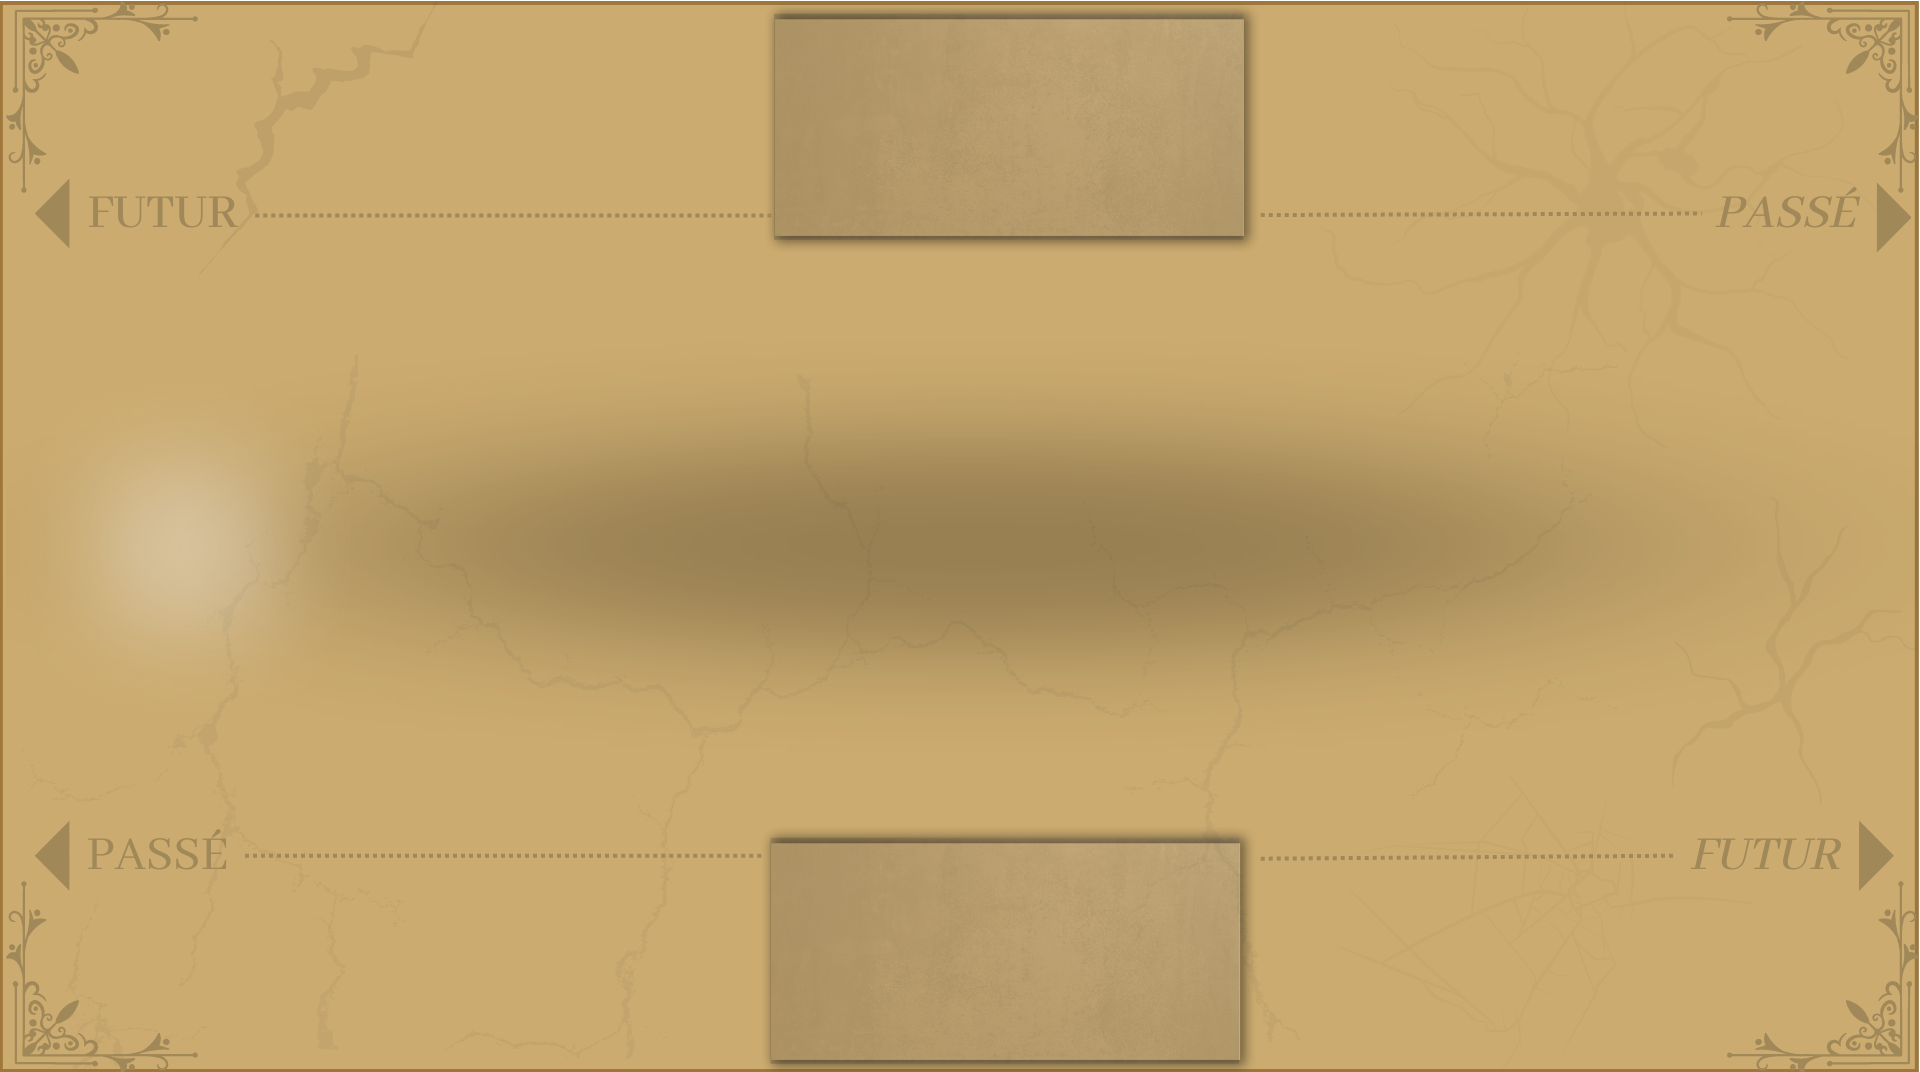
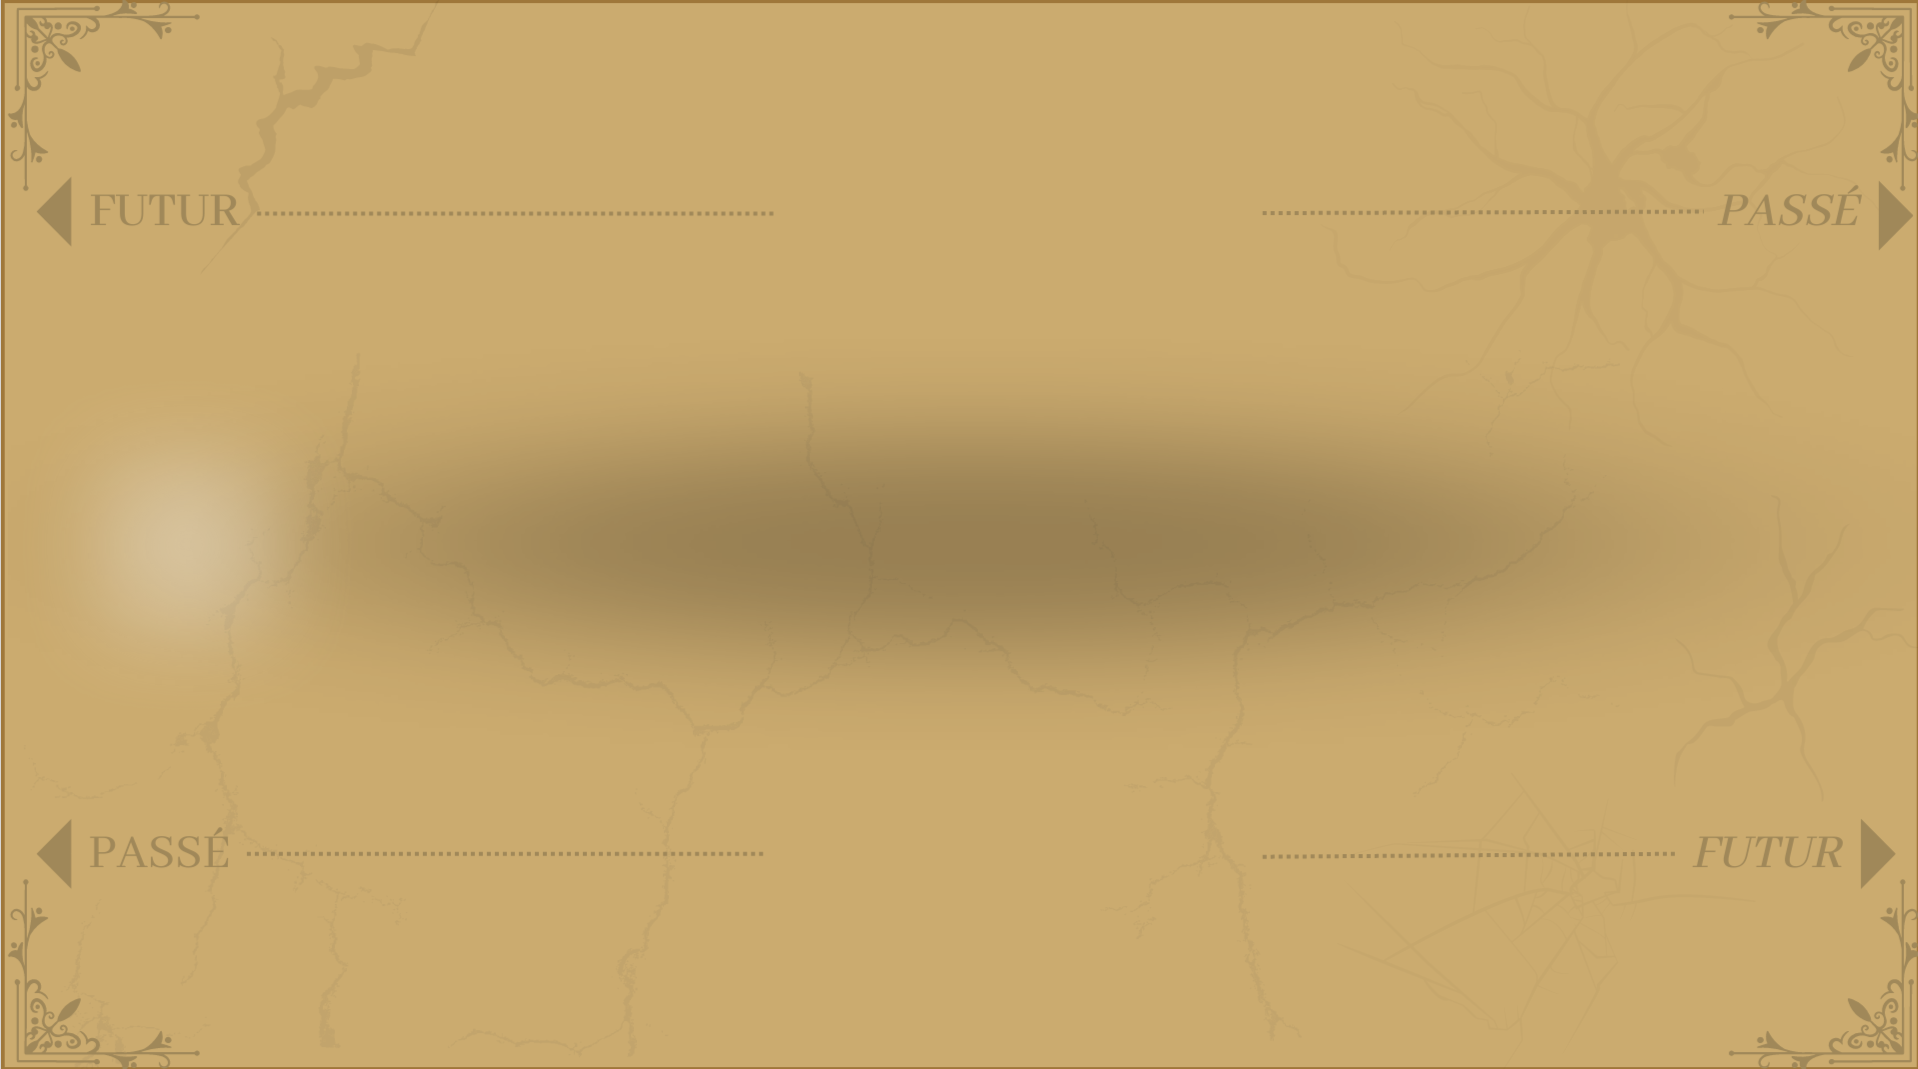
cadran joueur séparé

diff --git a/src/Vue/ContinuumGraphique.java b/src/Vue/ContinuumGraphique.java
@@ -33,6 +33,7 @@ public class ContinuumGraphique extends JPanel {
     Apres apres;
     Engrenage engrenage;
     Indice indice;
+    Cadran cadran1, cadran2;
 
     int sceptreJ1, sceptreJ2;
 
@@ -168,6 +169,7 @@ public class ContinuumGraphique extends JPanel {
         initializeSceptres();
         initEngrenage();
         initIndice();
+        initCadran();
 
         if (ctrl.getHistorique() != null)
             initBoutonsHistorique();
@@ -186,6 +188,13 @@ public class ContinuumGraphique extends JPanel {
     private void initIndice() {
         indice = new Indice(ctrl, "Indice", imagesCache);
         this.add(indice);
+    }
+
+    private void initCadran() {
+        cadran1 = new Cadran(ctrl, "Cadran", imagesCache);
+        this.add(cadran1);
+        cadran2 = new Cadran(ctrl, "Cadran", imagesCache);
+        this.add(cadran2);
     }
 
     private void initBoutonsHistorique() {
@@ -389,6 +398,9 @@ public class ContinuumGraphique extends JPanel {
         paintEngrenage(width, height);
         paintIndice(width, height);
 
+        paintCadran(width, height,1);
+        paintCadran(width, height,2);
+
         // affichage des scores sous forme de texte:
         g.setColor(Color.BLACK);
         g.setFont(new Font("Arial", Font.PLAIN, 20));
@@ -402,6 +414,37 @@ public class ContinuumGraphique extends JPanel {
             if (maskPanel != null) {
                 remove(maskPanel);
             }
+        }
+    }
+
+    private void paintCadran(int width, int height, int joueur) {
+        int tailleY = height /4;
+        int tailleX = width ;
+
+        int ratioX = 800;
+        int ratioY = 400;
+
+        int cadranX = width/2 - width/10;
+        int cadranY = 0;
+
+        if (joueur == 1) {
+            cadranY = 0;
+        } else {
+            cadranY = height - tailleY;
+        }
+
+        if (tailleX * ratioY > tailleY * ratioX) {
+            tailleX = tailleY * ratioX / ratioY;
+            cadranX = cadranX + (tailleX - tailleX) / 2;
+        } else {
+            tailleY = tailleX * ratioY / ratioX;
+            cadranY = cadranY + (tailleY - tailleY) / 2;
+        }
+
+        if (joueur == 1) {
+            cadran1.setBounds(cadranX, cadranY, tailleX, tailleY);
+        } else {
+            cadran2.setBounds(cadranX, cadranY, tailleX, tailleY);
         }
     }
 

diff --git a/src/Vue/Cadran.java b/src/Vue/Cadran.java
@@ -1,0 +1,44 @@
+package Vue;
+
+import java.awt.*;
+import java.util.HashMap;
+
+import javax.swing.*;
+
+import Controleur.ControleurMediateur;
+import Global.Configuration;
+import Modele.Carte;
+
+public class Cadran extends JComponent {
+    Carte carte;
+    int x, y, width, height;
+    HashMap<String, Image> imagesCache = new HashMap<String, Image>();
+    boolean hover = false;
+    boolean selectable = false;
+    int tailleY;
+    int tailleX;
+
+    int xCarte;
+    int yCarte;
+    ControleurMediateur ctrl;
+    AdaptateurSouris adaptateurSouris;
+
+    public Cadran(ControleurMediateur ctrl, String type, HashMap<String, Image> imagesCache) {
+        this.imagesCache = imagesCache;
+        this.ctrl = ctrl;
+        setLayout(null);
+    }
+
+    public void paintComponent(Graphics g) {
+        g.drawImage(getImage(), 0, 0, getWidth(), getHeight(), this);
+    }
+
+    public void miseAJour() {
+        adaptateurSouris.setCarte(carte);
+        repaint();
+    }
+
+    public Image getImage() {
+        return Configuration.lisImage("Cadran_joueur", imagesCache);
+    }
+}
